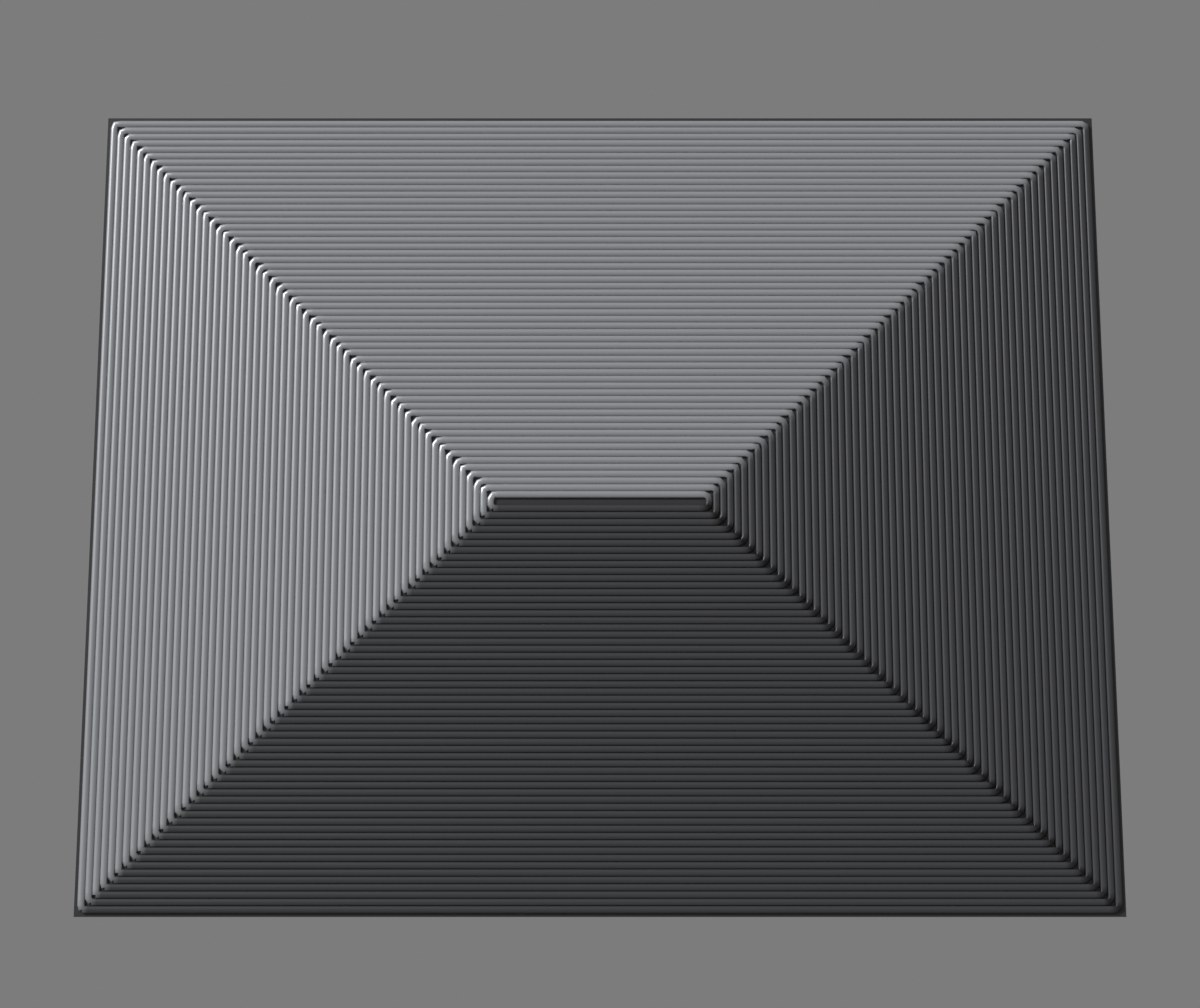
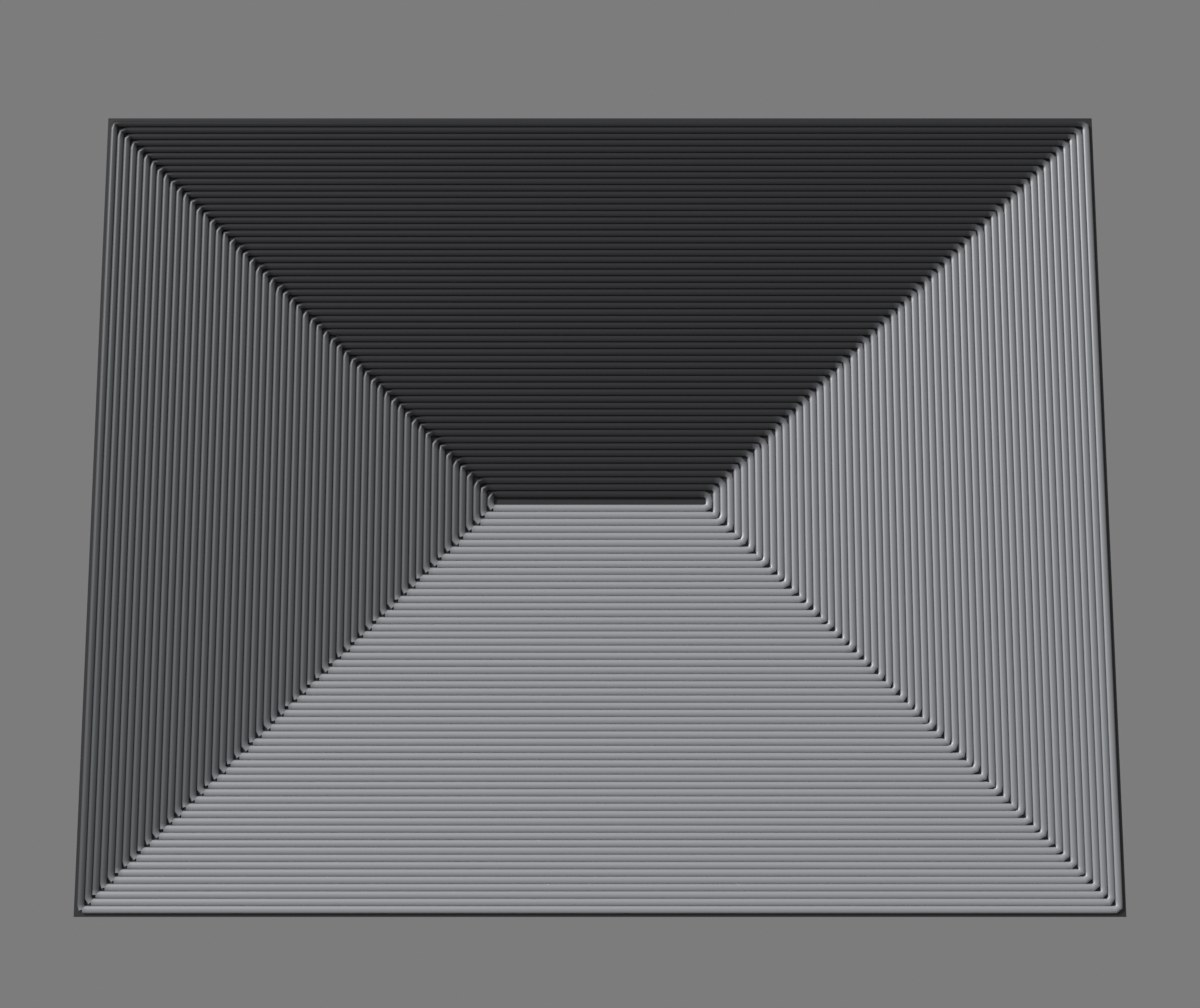
prototype: four distinct tones on the rectangle check
The colour axis sat 45 degrees off the plate's axes, so opposite pairs of
sides printed the same tone. The owner pointed out that the back of the
reference plate shows a black, a black-grey, a mid grey and a light side.
Turn the axis 30 degrees off the plate's axes and cut the highlight wash.

Refs #20

diff --git a/docs/prototypes/direction-colour-plate/build_preview.py b/docs/prototypes/direction-colour-plate/build_preview.py
@@ -27,7 +27,9 @@ def args():
     ap.add_argument("--layer", type=float, default=0.2)
     ap.add_argument("--grid", type=float, default=0.25, help="landform grid spacing, mm")
     ap.add_argument("--relief", type=float, default=0.03, help="printed height per mm of distance")
-    ap.add_argument("--light-from", type=float, default=135.0, help="slopes facing this way print light, degrees")
+    # 30 degrees off the plate's axes, so the four sides of a rectangle print as four tones
+    # (light, mid grey, black-grey, black) the way the back of the reference plate does.
+    ap.add_argument("--light-from", type=float, default=300.0, help="slopes facing this way print light, degrees")
     ap.add_argument("--slicer-direction", action="store_true", help="keep the add-on's loop direction")
     ap.add_argument("--width-px", type=int, default=2400)
     ap.add_argument("--samples", type=int, default=48)
@@ -157,7 +159,7 @@ def landform_group():
 def plate_group(filament, base):
     """Toolpath points -> tone from travel direction -> beads on a shallow relief."""
     t, gin, gout, ids = group("Plate", [
-        ("Landform", "NodeSocketObject", None), ("Light from", "NodeSocketFloat", 135.0),
+        ("Landform", "NodeSocketObject", None), ("Light from", "NodeSocketFloat", 300.0),
         ("Uphill on left", "NodeSocketBool", True), ("Relief", "NodeSocketFloat", 0.03),
         ("Bead width", "NodeSocketFloat", 0.42), ("Layer height", "NodeSocketFloat", 0.2)], geometry_in=True)
     path = node(t, "GeometryNodeMeshToCurve", {"Mesh": gin["Geometry"]}).outputs[0]
@@ -221,7 +223,7 @@ def materials():
     ramp.color_ramp.elements[0].color = (0.006, 0.006, 0.007, 1)   # charcoal half
     ramp.color_ramp.elements[1].color = (0.62, 0.64, 0.67, 1)      # silver half
     bsdf = nt.nodes["Principled BSDF"]
-    bsdf.inputs["Metallic"].default_value, bsdf.inputs["Roughness"].default_value = 0.35, 0.35
+    bsdf.inputs["Metallic"].default_value, bsdf.inputs["Roughness"].default_value = 0.2, 0.4
     nt.links.new(tone.outputs["Fac"], ramp.inputs["Fac"])
     nt.links.new(ramp.outputs["Color"], bsdf.inputs["Base Color"])
     base = bpy.data.materials.new("Under the beads")
